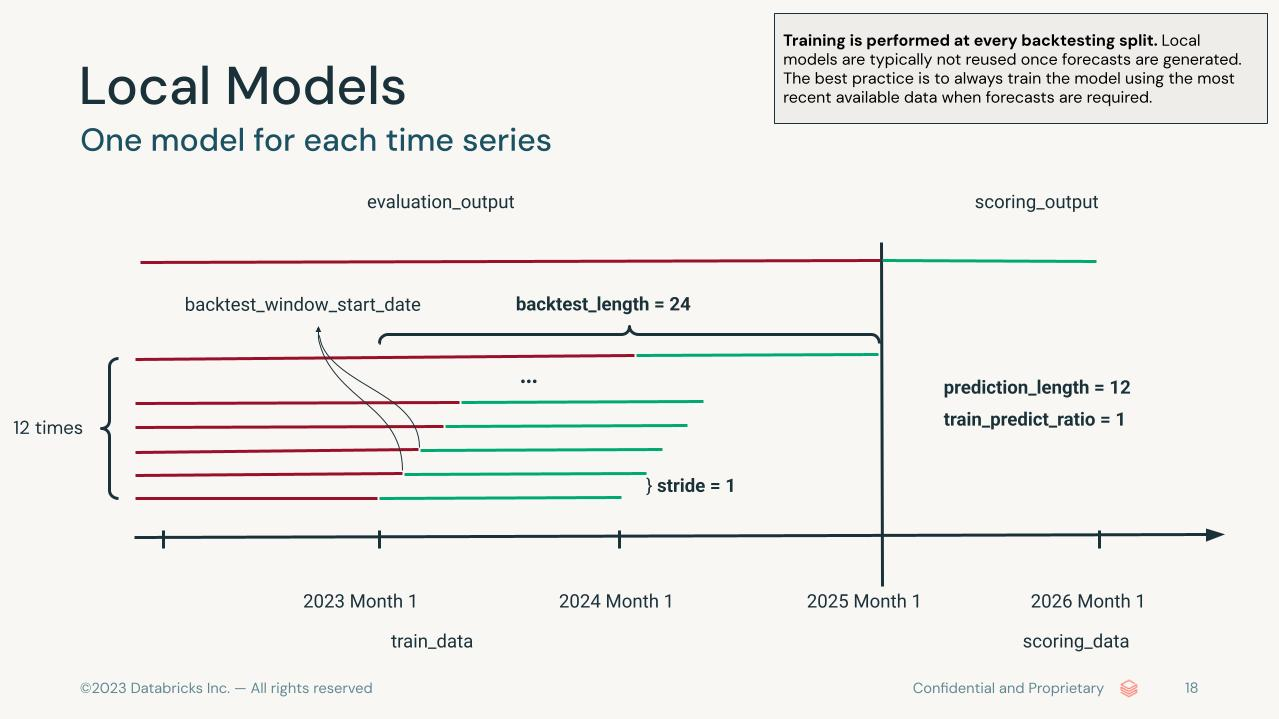
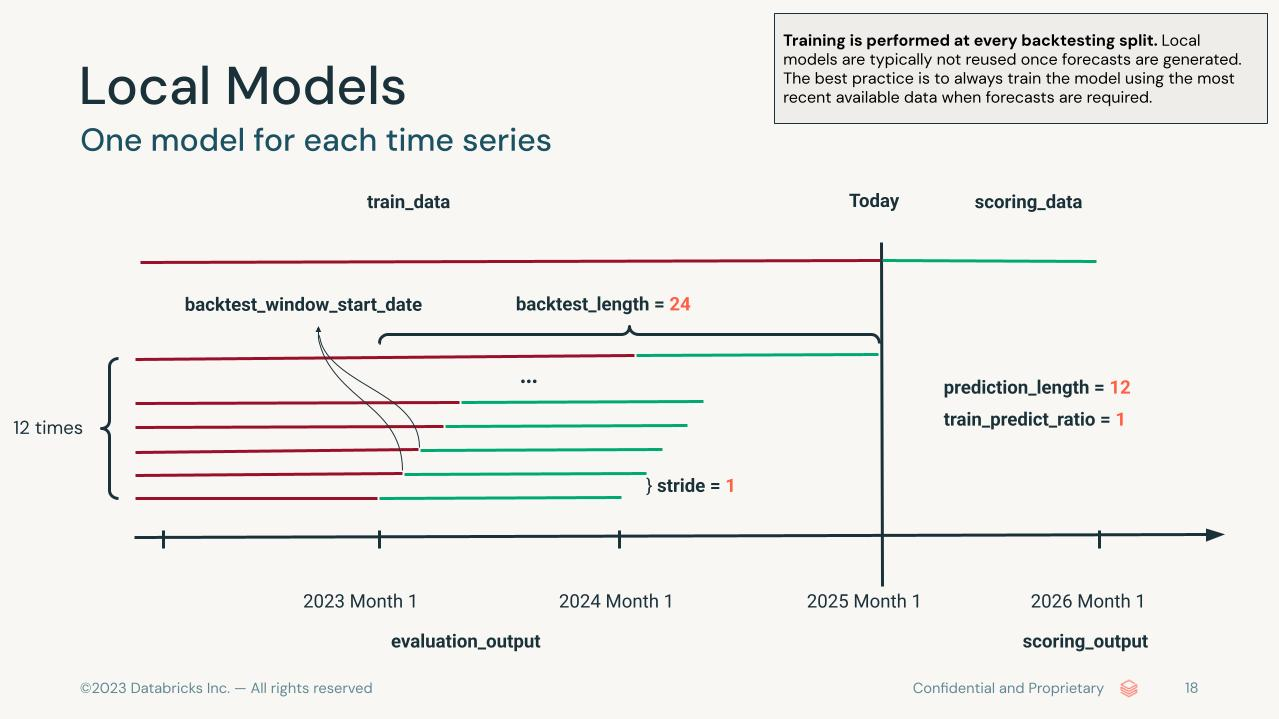
added detailed description on backtesting

diff --git a/README.md b/README.md
@@ -146,7 +146,7 @@ To modify the model hyperparameters, change the values in [mmf_sa/models/models_
 
 MMF is fully integrated with MLflow, so once the training kicks off, the experiments will be visible in the MLflow Tracking UI with the corresponding metrics and parameters (note that we do not log all local models in MLFlow, but we store the binaries in the tables ```evaluation_output``` and ```scoring_output```). The metric you see in the MLflow Tracking UI is a simple mean over backtesting trials over all time series. Refer to the [notebook](https://github.com/databricks-industry-solutions/many-model-forecasting/blob/main/examples/post-evaluation-analysis.ipynb) for guidance on performing fine-grained model selection after running `run_forecast`.
 
-We encourage you to read through [examples/daily/local_univariate_daily.ipynb](https://github.com/databricks-industry-solutions/many-model-forecasting/blob/main/examples/daily/local_univariate_daily.ipynb) notebook to better understand how local models can be applied to your time series using MMF. An example notebook for forecasting with exogenous regressors can be found in [examples/external_regressors/local_univariate_external_regressors_daily.ipynb](https://github.com/databricks-industry-solutions/many-model-forecasting/blob/main/examples/external_regressors/local_univariate_external_regressors_daily.ipynb).
+We encourage you to read through [examples/daily/local_univariate_daily.ipynb](https://github.com/databricks-industry-solutions/many-model-forecasting/blob/main/examples/daily/local_univariate_daily.ipynb) notebook to better understand how local models can be applied to your time series using MMF. An example notebook for forecasting with exogenous regressors can be found in [examples/external_regressors/local_univariate_external_regressors_daily.ipynb](https://github.com/databricks-industry-solutions/many-model-forecasting/blob/main/examples/external_regressors/local_univariate_external_regressors_daily.ipynb). See how to define the backtesting parameters [here](https://github.com/databricks-industry-solutions/many-model-forecasting/blob/main/mmf_sa/README.md#how-backtesting-works).
 
 ### Global Models
 
@@ -229,7 +229,7 @@ To modify the model hyperparameters or reset the range of the hyperparameter sea
 
 MMF is fully integrated with MLflow and so once the training kicks off, the experiments will be visible in the MLflow Tracking UI with the corresponding metrics and parameters. Once the training is complete the models will be logged to MLFlow and registered to Unity Catalog. 
 
-We encourage you to read through [examples/daily/global_daily.ipynb](https://github.com/databricks-industry-solutions/many-model-forecasting/blob/main/examples/daily/global_daily.ipynb) notebook to better understand how global models can be applied to your time series using MMF. An example notebook for forecasting with exogenous regressors can be found in [examples/external_regressors/global_external_regressors_daily.ipynb](https://github.com/databricks-industry-solutions/many-model-forecasting/blob/main/examples/external_regressors/global_external_regressors_daily.ipynb). Refer to the [notebook](https://github.com/databricks-industry-solutions/many-model-forecasting/blob/main/examples/post-evaluation-analysis.ipynb) for guidance on performing fine-grained model selection after running `run_forecast`.
+We encourage you to read through [examples/daily/global_daily.ipynb](https://github.com/databricks-industry-solutions/many-model-forecasting/blob/main/examples/daily/global_daily.ipynb) notebook to better understand how global models can be applied to your time series using MMF. An example notebook for forecasting with exogenous regressors can be found in [examples/external_regressors/global_external_regressors_daily.ipynb](https://github.com/databricks-industry-solutions/many-model-forecasting/blob/main/examples/external_regressors/global_external_regressors_daily.ipynb). Refer to the [notebook](https://github.com/databricks-industry-solutions/many-model-forecasting/blob/main/examples/post-evaluation-analysis.ipynb) for guidance on performing fine-grained model selection after running `run_forecast`. See how to define the backtesting parameters [here](https://github.com/databricks-industry-solutions/many-model-forecasting/blob/main/mmf_sa/README.md#how-backtesting-works).
 
 ### Foundation Models
 
@@ -270,7 +270,7 @@ To modify the model hyperparameters, change the values in [mmf_sa/models/models_
 
 MMF is fully integrated with MLflow and so once the training kicks off, the experiments will be visible in the MLflow Tracking UI with the corresponding metrics and parameters. During the evaluation, the models are logged and registered to Unity Catalog.
 
-We encourage you to read through [examples/daily/foundation_daily.ipynb](https://github.com/databricks-industry-solutions/many-model-forecasting/blob/main/examples/daily/foundation_daily.ipynb) notebook to better understand how foundation models can be applied to your time series using MMF. An example notebook for forecasting with exogenous regressors can be found in [examples/external_regressors/foundation_external_regressors_daily.ipynb](https://github.com/databricks-industry-solutions/many-model-forecasting/blob/main/examples/external_regressors/foundation_external_regressors_daily.ipynb). Refer to the [notebook](https://github.com/databricks-industry-solutions/many-model-forecasting/blob/main/examples/post-evaluation-analysis.ipynb) for guidance on performing fine-grained model selection after running `run_forecast`.
+We encourage you to read through [examples/daily/foundation_daily.ipynb](https://github.com/databricks-industry-solutions/many-model-forecasting/blob/main/examples/daily/foundation_daily.ipynb) notebook to better understand how foundation models can be applied to your time series using MMF. An example notebook for forecasting with exogenous regressors can be found in [examples/external_regressors/foundation_external_regressors_daily.ipynb](https://github.com/databricks-industry-solutions/many-model-forecasting/blob/main/examples/external_regressors/foundation_external_regressors_daily.ipynb). Refer to the [notebook](https://github.com/databricks-industry-solutions/many-model-forecasting/blob/main/examples/post-evaluation-analysis.ipynb) for guidance on performing fine-grained model selection after running `run_forecast`. See how to define the backtesting parameters [here](https://github.com/databricks-industry-solutions/many-model-forecasting/blob/main/mmf_sa/README.md#how-backtesting-works).
 
 #### Using Time Series Foundation Models on Databricks
 

diff --git a/mmf_sa/README.md b/mmf_sa/README.md
@@ -259,6 +259,48 @@ The system supports multiple out-of-the-box evaluation metrics:
 - **MSE**: Mean Squared Error
 - **RMSE**: Root Mean Squared Error
 
+### How Backtesting Works
+
+Backtesting uses an **expanding window** strategy to evaluate model performance across multiple historical points. Three parameters control this process:
+
+| Parameter | Description |
+|---|---|
+| `backtest_length` | Number of time steps (from the end of `train_data`) reserved for backtesting. This defines the evaluation region. |
+| `prediction_length` | The forecast horizon — how many steps ahead the model predicts at each backtest window. |
+| `stride` | How many time steps the window advances between consecutive backtests. A stride of 1 produces the maximum number of windows; larger strides reduce computation. |
+
+The number of backtest windows is approximately:
+
+```
+num_windows = (backtest_length - prediction_length) / stride + 1
+```
+
+For example, with `backtest_length=24`, `prediction_length=12`, and `stride=1`, the framework produces **12** backtest windows.
+
+An optional `train_predict_ratio` parameter (default 1) sets the minimum ratio of training data points to `prediction_length`. During data quality checks, any time series with fewer training points than `train_predict_ratio × prediction_length` is excluded.
+
+### Backtesting by Model Type
+
+The backtesting mechanism differs depending on the model type:
+
+#### Local Models
+
+Local models are trained independently for each time series. During backtesting, **the model is re-trained at every backtest split** — each window gets its own freshly fitted model. This matches the typical local-model workflow where you always retrain on the most recent available data before producing a forecast.
+
+![Backtesting for Local Models](../images/backtesting_local.jpg)
+
+#### Global Models
+
+Global models are trained once on all time series simultaneously (excluding the `backtest_length` region), and **the same trained model is reused across all backtest splits**. This is because training a global model is computationally intensive. For scoring, a separate final model is re-trained on the entire historical dataset and registered in Unity Catalog.
+
+![Backtesting for Global Models](../images/backtesting_global.jpg)
+
+#### Foundation Models
+
+Foundation models are pre-trained or fine-tuned, so **there is no training involved during evaluation or scoring — only inference**. The backtest windows are evaluated by running the foundation model's predict method on each split. The model is registered in Unity Catalog for scoring.
+
+![Backtesting for Foundation Models](../images/backtesting_foundation.jpg)
+
 ## Scoring Pipeline
 
 ### Scoring Workflow
